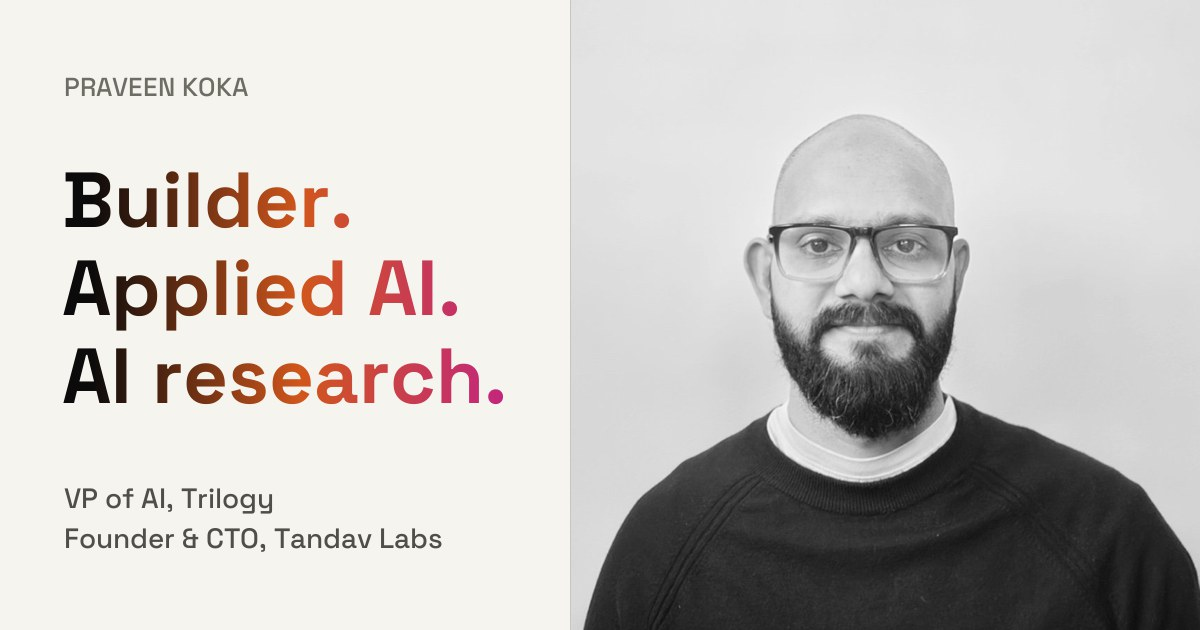
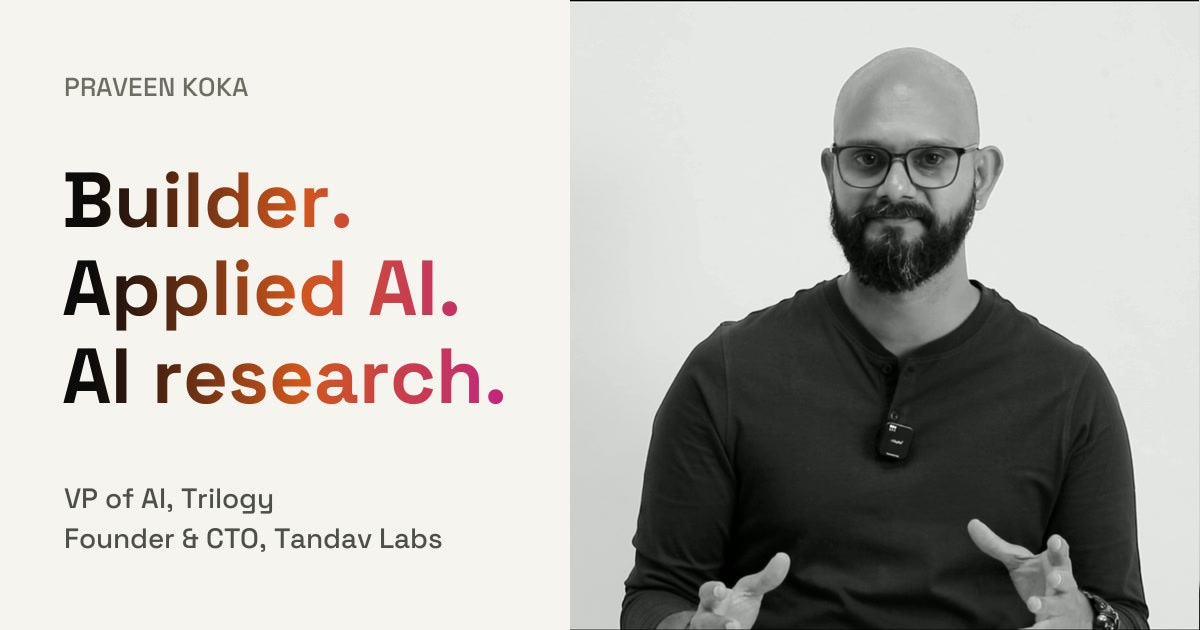
New portrait across the site and the link preview
Replaces the portrait, the nav avatar and the portrait in the
Open Graph image. The og:image URL gets ?v=2 so link previews refetch.

Changed region(s): [[0.4625, 0.0603, 1.0, 1.0], [0.4933, 0.0, 0.9867, 0.0302]]

diff --git a/public/index.html b/public/index.html
@@ -16,7 +16,7 @@
   <meta property="og:url" content="https://www.praveenkoka.com/">
   <meta property="og:title" content="Praveen Koka | Builder. Applied AI. AI research.">
   <meta property="og:description" content="VP of AI at Trilogy and Founder &amp; CTO of Tandav Labs. Sixteen years of building companies, from RFID and IoT to social analytics to applied AI.">
-  <meta property="og:image" content="https://www.praveenkoka.com/assets/img/og.jpg">
+  <meta property="og:image" content="https://www.praveenkoka.com/assets/img/og.jpg?v=2">
   <meta property="og:image:width" content="1200">
   <meta property="og:image:height" content="630">
   <meta property="og:image:alt" content="Praveen Koka. Builder. Applied AI. AI research.">
@@ -26,7 +26,7 @@
   <meta name="twitter:card" content="summary_large_image">
   <meta name="twitter:title" content="Praveen Koka | Builder. Applied AI. AI research.">
   <meta name="twitter:description" content="VP of AI at Trilogy and Founder &amp; CTO of Tandav Labs.">
-  <meta name="twitter:image" content="https://www.praveenkoka.com/assets/img/og.jpg">
+  <meta name="twitter:image" content="https://www.praveenkoka.com/assets/img/og.jpg?v=2">
   <meta name="twitter:image:alt" content="Praveen Koka. Builder. Applied AI. AI research.">
 
   <link rel="icon" href="/favicon.ico" sizes="48x48">

diff --git a/public/writing/index.html b/public/writing/index.html
@@ -16,7 +16,7 @@
   <meta property="og:url" content="https://www.praveenkoka.com/writing/">
   <meta property="og:title" content="Writing | Praveen Koka">
   <meta property="og:description" content="Benchmarks, build notes and research on AI agents, retrieval and reinforcement learning.">
-  <meta property="og:image" content="https://www.praveenkoka.com/assets/img/og.jpg">
+  <meta property="og:image" content="https://www.praveenkoka.com/assets/img/og.jpg?v=2">
   <meta property="og:image:width" content="1200">
   <meta property="og:image:height" content="630">
   <meta property="og:image:alt" content="Praveen Koka. Builder. Applied AI. AI research.">
@@ -24,7 +24,7 @@
   <meta name="twitter:card" content="summary_large_image">
   <meta name="twitter:title" content="Writing | Praveen Koka">
   <meta name="twitter:description" content="Benchmarks, build notes and research on AI agents, retrieval and reinforcement learning.">
-  <meta name="twitter:image" content="https://www.praveenkoka.com/assets/img/og.jpg">
+  <meta name="twitter:image" content="https://www.praveenkoka.com/assets/img/og.jpg?v=2">
   <meta name="twitter:image:alt" content="Praveen Koka. Builder. Applied AI. AI research.">
 
   <link rel="icon" href="/favicon.ico" sizes="48x48">
